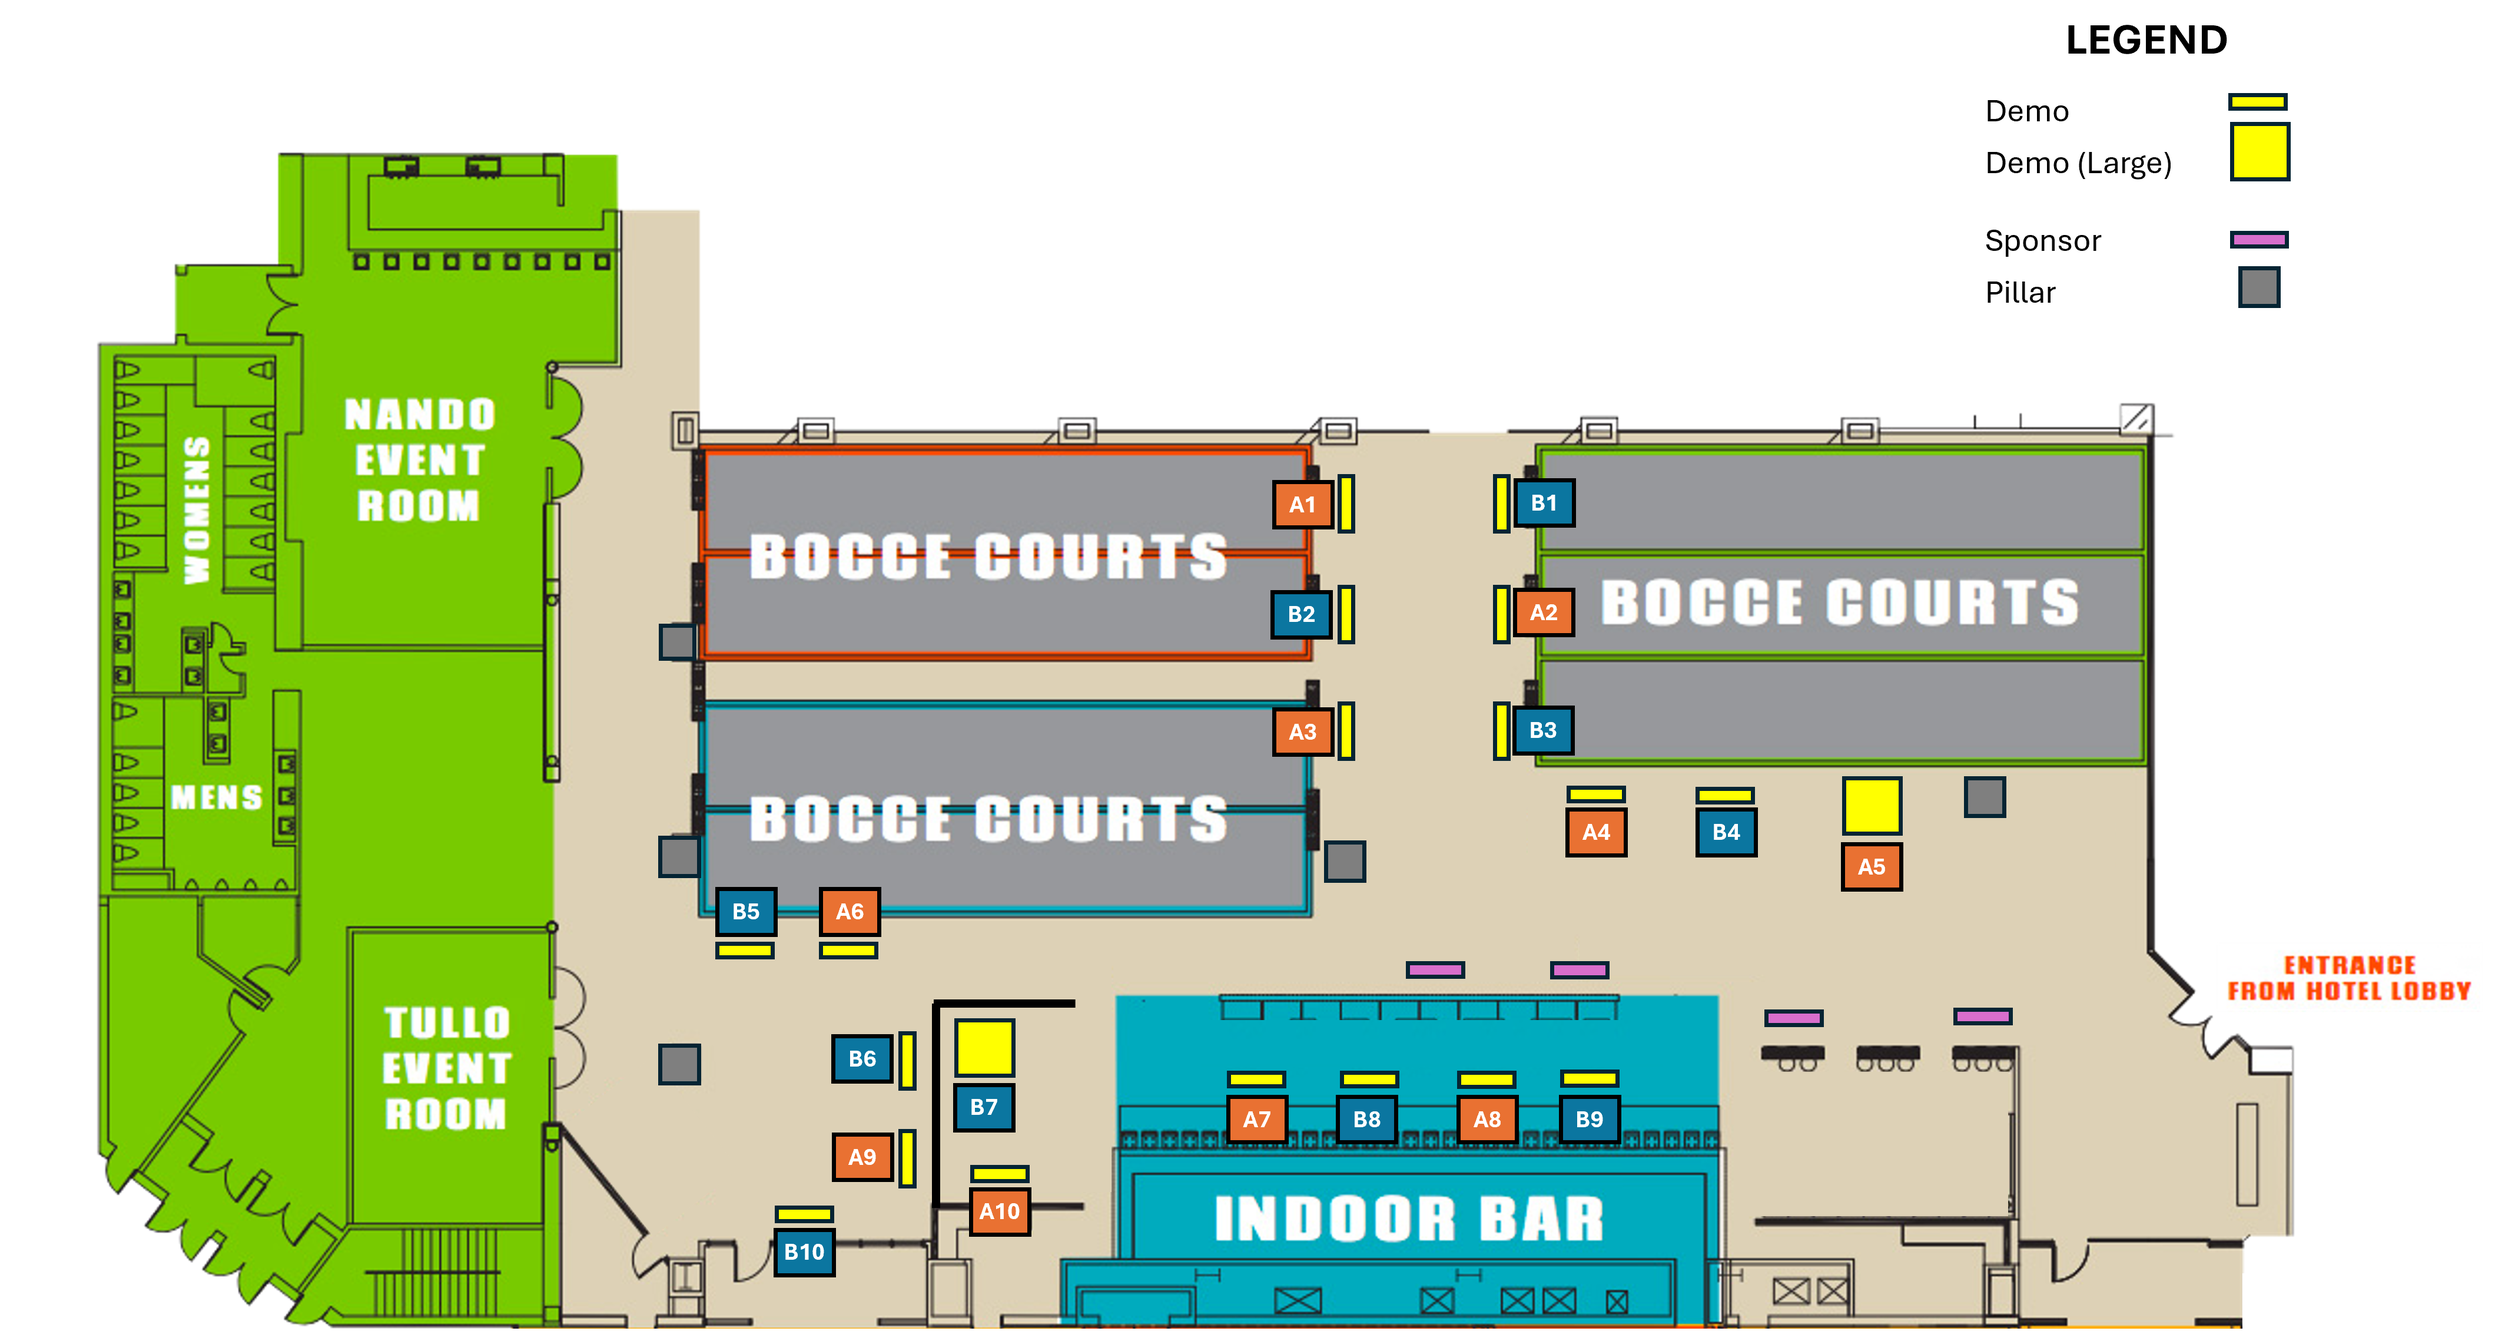
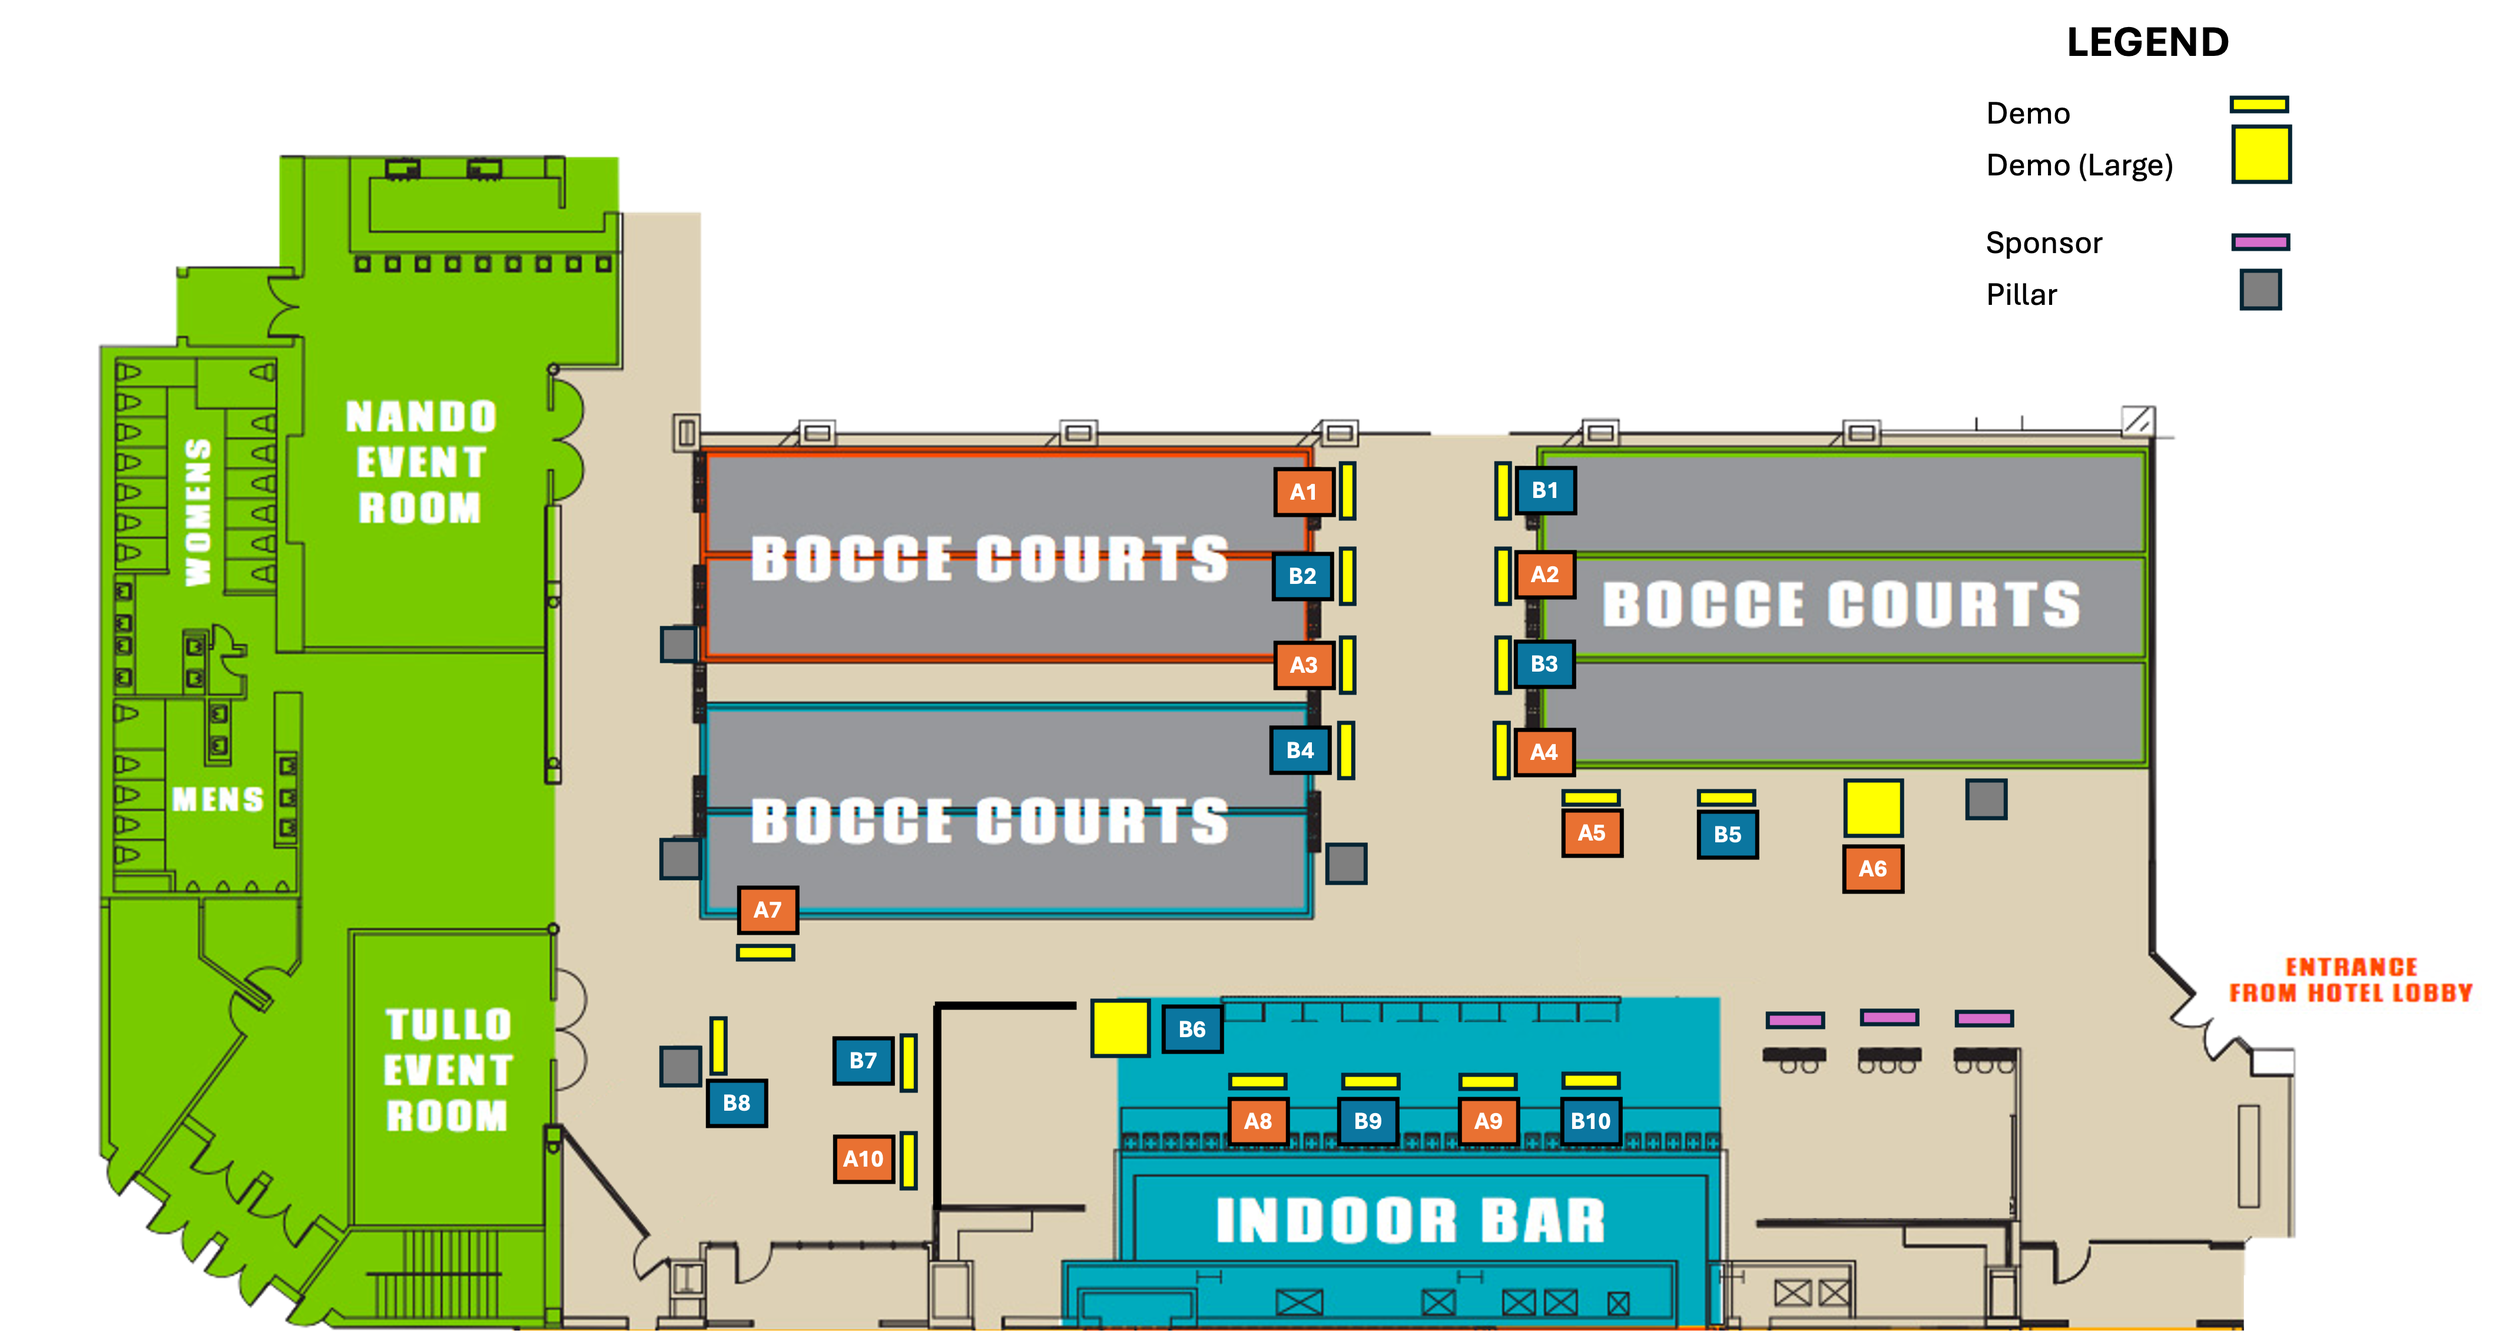
Update demos

diff --git a/site/content/program/demo.md b/site/content/program/demo.md
@@ -19,17 +19,16 @@ Monday, March 30, 2:00 p.m. - 3:45 p.m.
 *- Bundox Bocce*  
 
 {{<programTable>}}
-{{<programEntry id="A1"title="Flex-Knee: A Low-Cost Passive Haptic Model for Injury Assessment Training"author="Marco Moran-Ledesma (University of Waterloo), Robert Burns (University of Waterloo), Oliver Schneider (University of Waterloo), and Mark Hancock (University of Waterloo)"youtube="https://youtu.be/US0PynWpnBc">}}
-{{<programEntry id="A2"title="Demonstrating SensoryBlox: Plug-and-Feel Modular Multi-Sensory User Interface for Immersive Cardboard VR"author="Hyunjae Gil (University of Texas at Dallas, DGIST), Abbas Khawaja (University of Texas at Dallas), Ben Cressman (University of Texas at Dallas), Andrew Gerungan (University of Texas at Dallas), and Jin Ryong Kim (University of Texas at Dallas)">}}
-{{<programEntry id="A3"title="MAGTRACE: Electromagnetic Shape Rendering Via a User-Driven Linear Exploration Platform"author="Sarah Costrell (Carnegie Mellon University), Roberta L. Klatzky (Carnegie Mellon University), and Melisa Orta Martinez (Carnegie Mellon University)">}}
-{{<programEntry id="A4"title="Demonstrating Fiery Hands: A Thermal–Tactile Thermal Gloves using Thermal Masking"author="Haokun Wang (University of Texas at Dallas), Yatharth Singhal (University of Texas at Dallas, University of Texas Southwestern), Hyunjae Gil (University of Texas at Dallas, DGIST), and Jin Ryong Kim (University of Texas at Dallas)"youtube="https://youtu.be/rx0BU8LGwW4">}}
-{{<programEntry id="A5"title="Demonstrating XRScissor: Magnetorheological Haptic Interface for Realistic Cutting in XR"author="Haokun Wang (University of Texas at Dallas), Ashish Pratap (University of Texas at Dallas), Hyunjae Gil (University of Texas at Dallas, DGIST), Jun Sik Shin (Konkuk University), Tae-Heon Yang (Konkuk University), and Jin Ryong Kim  (University of Texas at Dallas)">}}
-{{<programEntry id="A6"title="Sharing High-fidelity Touch Sensations with a Remote User"author="Pijuan Yu (Texas A&M University), Anzu Kawazoe (Texas A&M University), Alexis Urquhart (Texas A&M University), Fahim Islam Anik (Texas A&M University), Thomas K. Ferris (Texas A&M University), and M. Cynthia Hipwell (Texas A&M University) and Rebecca F. Friesen (Texas A&M University)"youtube="https://youtu.be/kVblTamUhp4">}}
-{{<programEntry id="A7"title="A Virtual Reality System for the Delivery of Virtual Equine Therapy"author="Nicholas C. Schneider (University of Utah), Mathias A. Schoen (Edmonds College), I. Francesca Zeringue (SLC Veterans Affairs Medical Center -- George E. Wahlen), and Edoardo Battaglia (University of Utah)">}}
-{{<programEntry id="A8"title="ShapeShifter: Hands-On Interaction with Shape and Softness in VR"author="Kyler L. Ingles (University of Utah), Pai Wang (University of Utah), Bruce K. Gale (University of Utah), and Edoardo Battaglia (University of Utah)"youtube="https://youtu.be/Uk6nsNsszuw">}}
-{{<programEntry id="A9"title="Demonstrating Differential Dual-Side Fingertip Actuation for Virtual Reality Force Feedback"author="Yanjun Chen (University of Illinois Urbana-Champaign), Jung-Hwan Youn (University of Illinois Urbana-Champaign), and Craig Shultz (University of Illinois Urbana-Champaign)"youtube="https://youtu.be/B02Yt4sOTu8">}}
-{{<programEntry id="A10"title="Stereo Neural Haptics: Unencumbered Audio-Tactile Congruency"author="Rachel S. Jakes (Case Western Reserve University, Human Fusions Institute), Jeremy L. Dunning (Louis Stokes Cleveland VA Medical Center, Human Fusions Institute), and Dr. Dustin J. Tyler (Case Western Reserve University, Human Fusions Institute)"youtube="https://youtu.be/ZBZ2qPeszc4">}}
-
+{{<programEntry id="A1" title="Flex-Knee: A Low-Cost Passive Haptic Model for Injury Assessment Training" author=" Marco Moran-Ledesma (University of Waterloo), Robert Burns (University of Waterloo), Oliver Schneider (University of Waterloo), and Mark Hancock (University of Waterloo)" youtube="https://youtu.be/US0PynWpnBc">}}
+{{<programEntry id="A2" title="Sharing High-fidelity Touch Sensations with a Remote User" author=" Pijuan Yu (Texas A&M University), Anzu Kawazoe (Texas A&M University), Alexis Urquhart (Texas A&M University), Fahim Islam Anik (Texas A&M University), Thomas K. Ferris (Texas A&M University), and M. Cynthia Hipwell (Texas A&M University) and Rebecca F. Friesen (Texas A&M University)" youtube="https://youtu.be/kVblTamUhp4">}}
+{{<programEntry id="A3" title="MAGTRACE: Electromagnetic Shape Rendering Via a User-Driven Linear Exploration Platform" author=" Sarah Costrell (Carnegie Mellon University), Roberta L. Klatzky (Carnegie Mellon University), and Melisa Orta Martinez (Carnegie Mellon University)">}}
+{{<programEntry id="A4" title="Demonstration of HeatFlow: A Thermal-Tactile Display for Dynamic 2D Thermal Movements" author=" Daniel Honrales (University of Texas at Dallas), Yatharth Singhal (University of Texas at Dallas), and Jin Ryong Kim (University of Texas at Dallas)" youtube="https://youtu.be/wQUAF6mmrVM">}}
+{{<programEntry id="A5" title="Demonstrating Fiery Hands: A Thermal–Tactile Thermal Gloves using Thermal Masking" author=" Haokun Wang (University of Texas at Dallas), Yatharth Singhal (University of Texas at Dallas, University of Texas Southwestern), Hyunjae Gil (University of Texas at Dallas, DGIST), and Jin Ryong Kim (University of Texas at Dallas)" youtube="https://youtu.be/rx0BU8LGwW4">}}
+{{<programEntry id="A6" title="Demonstrating XRScissor: Magnetorheological Haptic Interface for Realistic Cutting in XR" author=" Haokun Wang (University of Texas at Dallas), Ashish Pratap (University of Texas at Dallas), Hyunjae Gil (University of Texas at Dallas, DGIST), Jun Sik Shin (Konkuk University), Tae-Heon Yang (Konkuk University), and Jin Ryong Kim  (University of Texas at Dallas)">}}
+{{<programEntry id="A7" title="Stereo Neural Haptics: Unencumbered Audio-Tactile Congruency" author=" Rachel S. Jakes (Case Western Reserve University, Human Fusions Institute), Jeremy L. Dunning (Louis Stokes Cleveland VA Medical Center, Human Fusions Institute), and Dr. Dustin J. Tyler (Case Western Reserve University, Human Fusions Institute)" youtube="https://youtu.be/ZBZ2qPeszc4">}}
+{{<programEntry id="A8" title="A Virtual Reality System for the Delivery of Virtual Equine Therapy" author=" Nicholas C. Schneider (University of Utah), Mathias A. Schoen (Edmonds College), I. Francesca Zeringue (SLC Veterans Affairs Medical Center -- George E. Wahlen), and Edoardo Battaglia (University of Utah)">}}
+{{<programEntry id="A9" title="ShapeShifter: Hands-On Interaction with Shape and Softness in VR" author=" Kyler L. Ingles (University of Utah), Pai Wang (University of Utah), Bruce K. Gale (University of Utah), and Edoardo Battaglia (University of Utah)" youtube="https://youtu.be/Uk6nsNsszuw">}}
+{{<programEntry id="A10" title="Demonstrating Differential Dual-Side Fingertip Actuation for Virtual Reality Force Feedback" author=" Yanjun Chen (University of Illinois Urbana-Champaign), Jung-Hwan Youn (University of Illinois Urbana-Champaign), and Craig Shultz (University of Illinois Urbana-Champaign)" youtube="https://youtu.be/B02Yt4sOTu8">}}
 {{</programTable>}}
 
 ## Session B
@@ -37,16 +36,16 @@ Tuesday, March 31, 2:00 p.m. - 3:45 p.m.
 *- Bundox Bocce*  
 
 {{<programTable>}}
-{{<programEntry id="B1"title="Full Decoupling of Tactile Force Vectors Using 3D-Printable Metamaterial Architectures for Robotic Proprioception"author="Jiayan Zhang (University of California, Berkeley), Haotian Lu (University of California, Berkeley), Ju Young Park (University of California, Berkeley), and Rayne Zheng (University of California, Berkeley)">}}
-{{<programEntry id="B2"title="Language-Guided Multimodal Texture Authoring"author="Wanli Qian (University of Southern California), Aiden Chang (University of Southern California), Shihan Lu (NorthWestern University), Michael Gu (University of Southern California), and Heather Culbertson (University of Southern California)">}}
-{{<programEntry id="B3"title="Demonstrating Moisture Transfer: A Perceptual Wetness Illusion Through Thermal and Wet Integration"author="Yatharth Singhal (University of Texas at Dallas), Abbas Khawaja (University of Texas at Dallas), Adam McCutcheon (University of Texas at Dallas), Haokun Wang (University of Texas at Dallas), Daniel Honrales (University of Texas at Dallas), Anhaar Wasi (University of Texas at Dallas), and Jin Ryong Kim (University of Texas at Dallas)">}}
-{{<programEntry id="B4"title="Demonstration of HeatFlow: A Thermal-Tactile Display for Dynamic 2D Thermal Movements"author="Daniel Honrales (University of Texas at Dallas), Yatharth Singhal (University of Texas at Dallas), and Jin Ryong Kim (University of Texas at Dallas)"youtube="https://youtu.be/wQUAF6mmrVM">}}
-{{<programEntry id="B5"title="Twin-system sensing/haptic feedback gloves"author="Cosima du Pasquier (Stanford University), Joshua Phelps (Stanford University), Ina Nasteva (Stanford University), Brianna Liang (Stanford University), and Allison M. Okamura (Stanford University)">}}
-{{<programEntry id="B6"title="Demonstration of Spatially Localized Fingertip Haptics using Miniature LRA Arrays and Specialized Actuation Method"author="Seung Heon Lee (University of Illinois Urbana-Champaign), Jung-Hwan Youn (University of Illinois Urbana-Champaign), and Craig Shultz (University of Illinois Urbana-Champaign)">}}
-{{<programEntry id="B7"title="Demonstration of a Virtual Brush Illusion Paradigm"author="Lyndah Lovell (Johns Hopkins University), Ethan Brown (Johns Hopkins University), Sarah Derrick (Johns Hopkins University), Mohit Singhala (University of Pittsburgh), and Jeremy D. Brown (Johns Hopkins University)"youtube="https://youtu.be/tuZ6y3v_KDE">}}
-{{<programEntry id="B8"title="A Simulation of In-Ground Effect Enabled Haptic Teleoperation of Uncrewed Aerial Vehicles"author="Nicholas C. Schneider (University of Utah), Jacob M. Anderson (University of Utah), Kam K. Leang (University of Utah), and Edoardo Battaglia (University of Utah)"youtube="https://youtu.be/yhiAg8VrUXM">}}
-{{<programEntry id="B9"title="HapFish: Exploring Low-Cost and High-End Open-Source Haptics Through a Fishing Game"author="Pengshun Tang (University of Utah), Mason Mathias (Auburn University), Quinton M. Christensen (University of Utah), Davis W. Poole (Auburn University), Chad G. Rose (Auburn University), and Edoardo Battaglia (University of Utah)"youtube="https://youtu.be/m2UAqu3-4jU">}}
-{{<programEntry id="B10"title="Time to Breathe: A Watch-Sized, Radially Expanding Skin Drag Wearable for Guided Breathing"author="Jake Little (Saint Louis University), Colton Doherty (Saint Louis University), Jen L. Tennison (Saint Louis University), and Jenna L. Gorlewicz (Saint Louis University)"youtube="https://youtu.be/68nBpdAJPSE">}}
+{{<programEntry id="B1" title="Full Decoupling of Tactile Force Vectors Using 3D-Printable Metamaterial Architectures for Robotic Proprioception" author=" Jiayan Zhang (University of California, Berkeley), Haotian Lu (University of California, Berkeley), Ju Young Park (University of California, Berkeley), and Rayne Zheng (University of California, Berkeley)">}}
+{{<programEntry id="B2" title="Language-Guided Multimodal Texture Authoring" author=" Wanli Qian (University of Southern California), Aiden Chang (University of Southern California), Shihan Lu (NorthWestern University), Michael Gu (University of Southern California), and Heather Culbertson (University of Southern California)">}}
+{{<programEntry id="B3" title="Demonstrating SensoryBlox: Plug-and-Feel Modular Multi-Sensory User Interface for Immersive Cardboard VR" author=" Hyunjae Gil (University of Texas at Dallas, DGIST), Abbas Khawaja (University of Texas at Dallas), Ben Cressman (University of Texas at Dallas), Andrew Gerungan (University of Texas at Dallas), and Jin Ryong Kim (University of Texas at Dallas)">}}
+{{<programEntry id="B4" title="Twin-system sensing/haptic feedback gloves" author=" Cosima du Pasquier (Stanford University), Joshua Phelps (Stanford University), Ina Nasteva (Stanford University), Brianna Liang (Stanford University), and Allison M. Okamura (Stanford University)">}}
+{{<programEntry id="B5" title="Demonstrating Moisture Transfer: A Perceptual Wetness Illusion Through Thermal and Wet Integration" author=" Yatharth Singhal (University of Texas at Dallas), Abbas Khawaja (University of Texas at Dallas), Adam McCutcheon (University of Texas at Dallas), Haokun Wang (University of Texas at Dallas), Daniel Honrales (University of Texas at Dallas), Anhaar Wasi (University of Texas at Dallas), and Jin Ryong Kim (University of Texas at Dallas)">}}
+{{<programEntry id="B6" title="Demonstration of a Virtual Brush Illusion Paradigm" author=" Lyndah Lovell (Johns Hopkins University), Ethan Brown (Johns Hopkins University), Sarah Derrick (Johns Hopkins University), Mohit Singhala (University of Pittsburgh), and Jeremy D. Brown (Johns Hopkins University)" youtube="https://youtu.be/tuZ6y3v_KDE">}}
+{{<programEntry id="B7" title="Demonstration of Spatially Localized Fingertip Haptics using Miniature LRA Arrays and Specialized Actuation Method" author=" Seung Heon Lee (University of Illinois Urbana-Champaign), Jung-Hwan Youn (University of Illinois Urbana-Champaign), and Craig Shultz (University of Illinois Urbana-Champaign)">}}
+{{<programEntry id="B8" title="Time to Breathe: A Watch-Sized, Radially Expanding Skin Drag Wearable for Guided Breathing" author=" Jake Little (Saint Louis University), Colton Doherty (Saint Louis University), Jen L. Tennison (Saint Louis University), and Jenna L. Gorlewicz (Saint Louis University)" youtube="https://youtu.be/68nBpdAJPSE">}}
+{{<programEntry id="B9" title="A Simulation of In-Ground Effect Enabled Haptic Teleoperation of Uncrewed Aerial Vehicles" author=" Nicholas C. Schneider (University of Utah), Jacob M. Anderson (University of Utah), Kam K. Leang (University of Utah), and Edoardo Battaglia (University of Utah)" youtube="https://youtu.be/yhiAg8VrUXM">}}
+{{<programEntry id="B10" title="HapFish: Exploring Low-Cost and High-End Open-Source Haptics Through a Fishing Game" author=" Pengshun Tang (University of Utah), Mason Mathias (Auburn University), Quinton M. Christensen (University of Utah), Davis W. Poole (Auburn University), Chad G. Rose (Auburn University), and Edoardo Battaglia (University of Utah)" youtube="https://youtu.be/m2UAqu3-4jU">}}
 {{</programTable>}}
 
 ## Demonstration Layout
